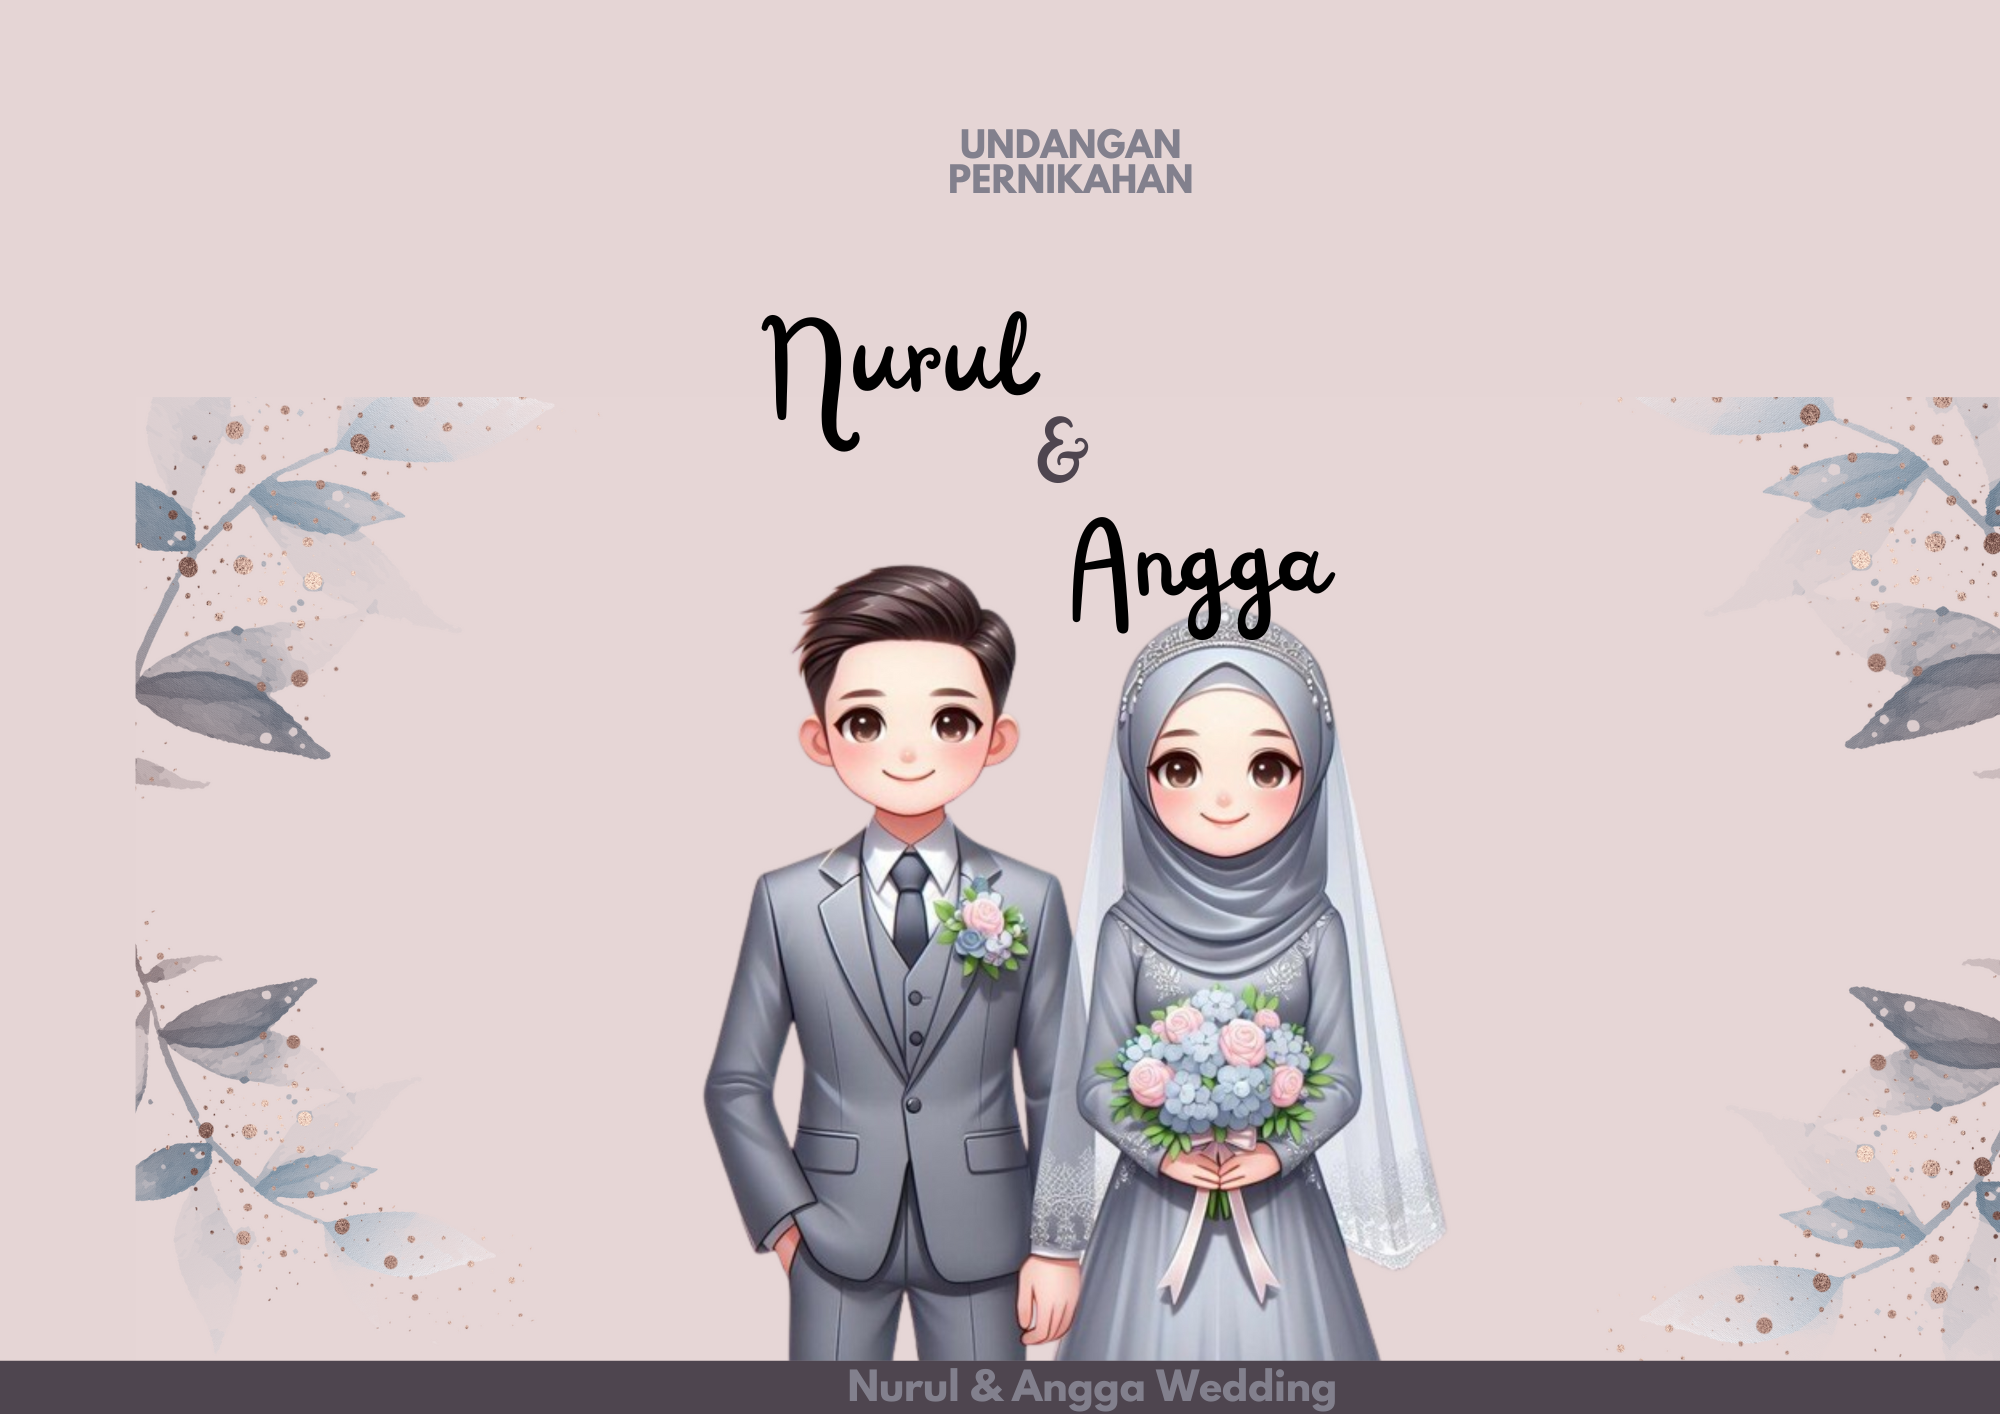
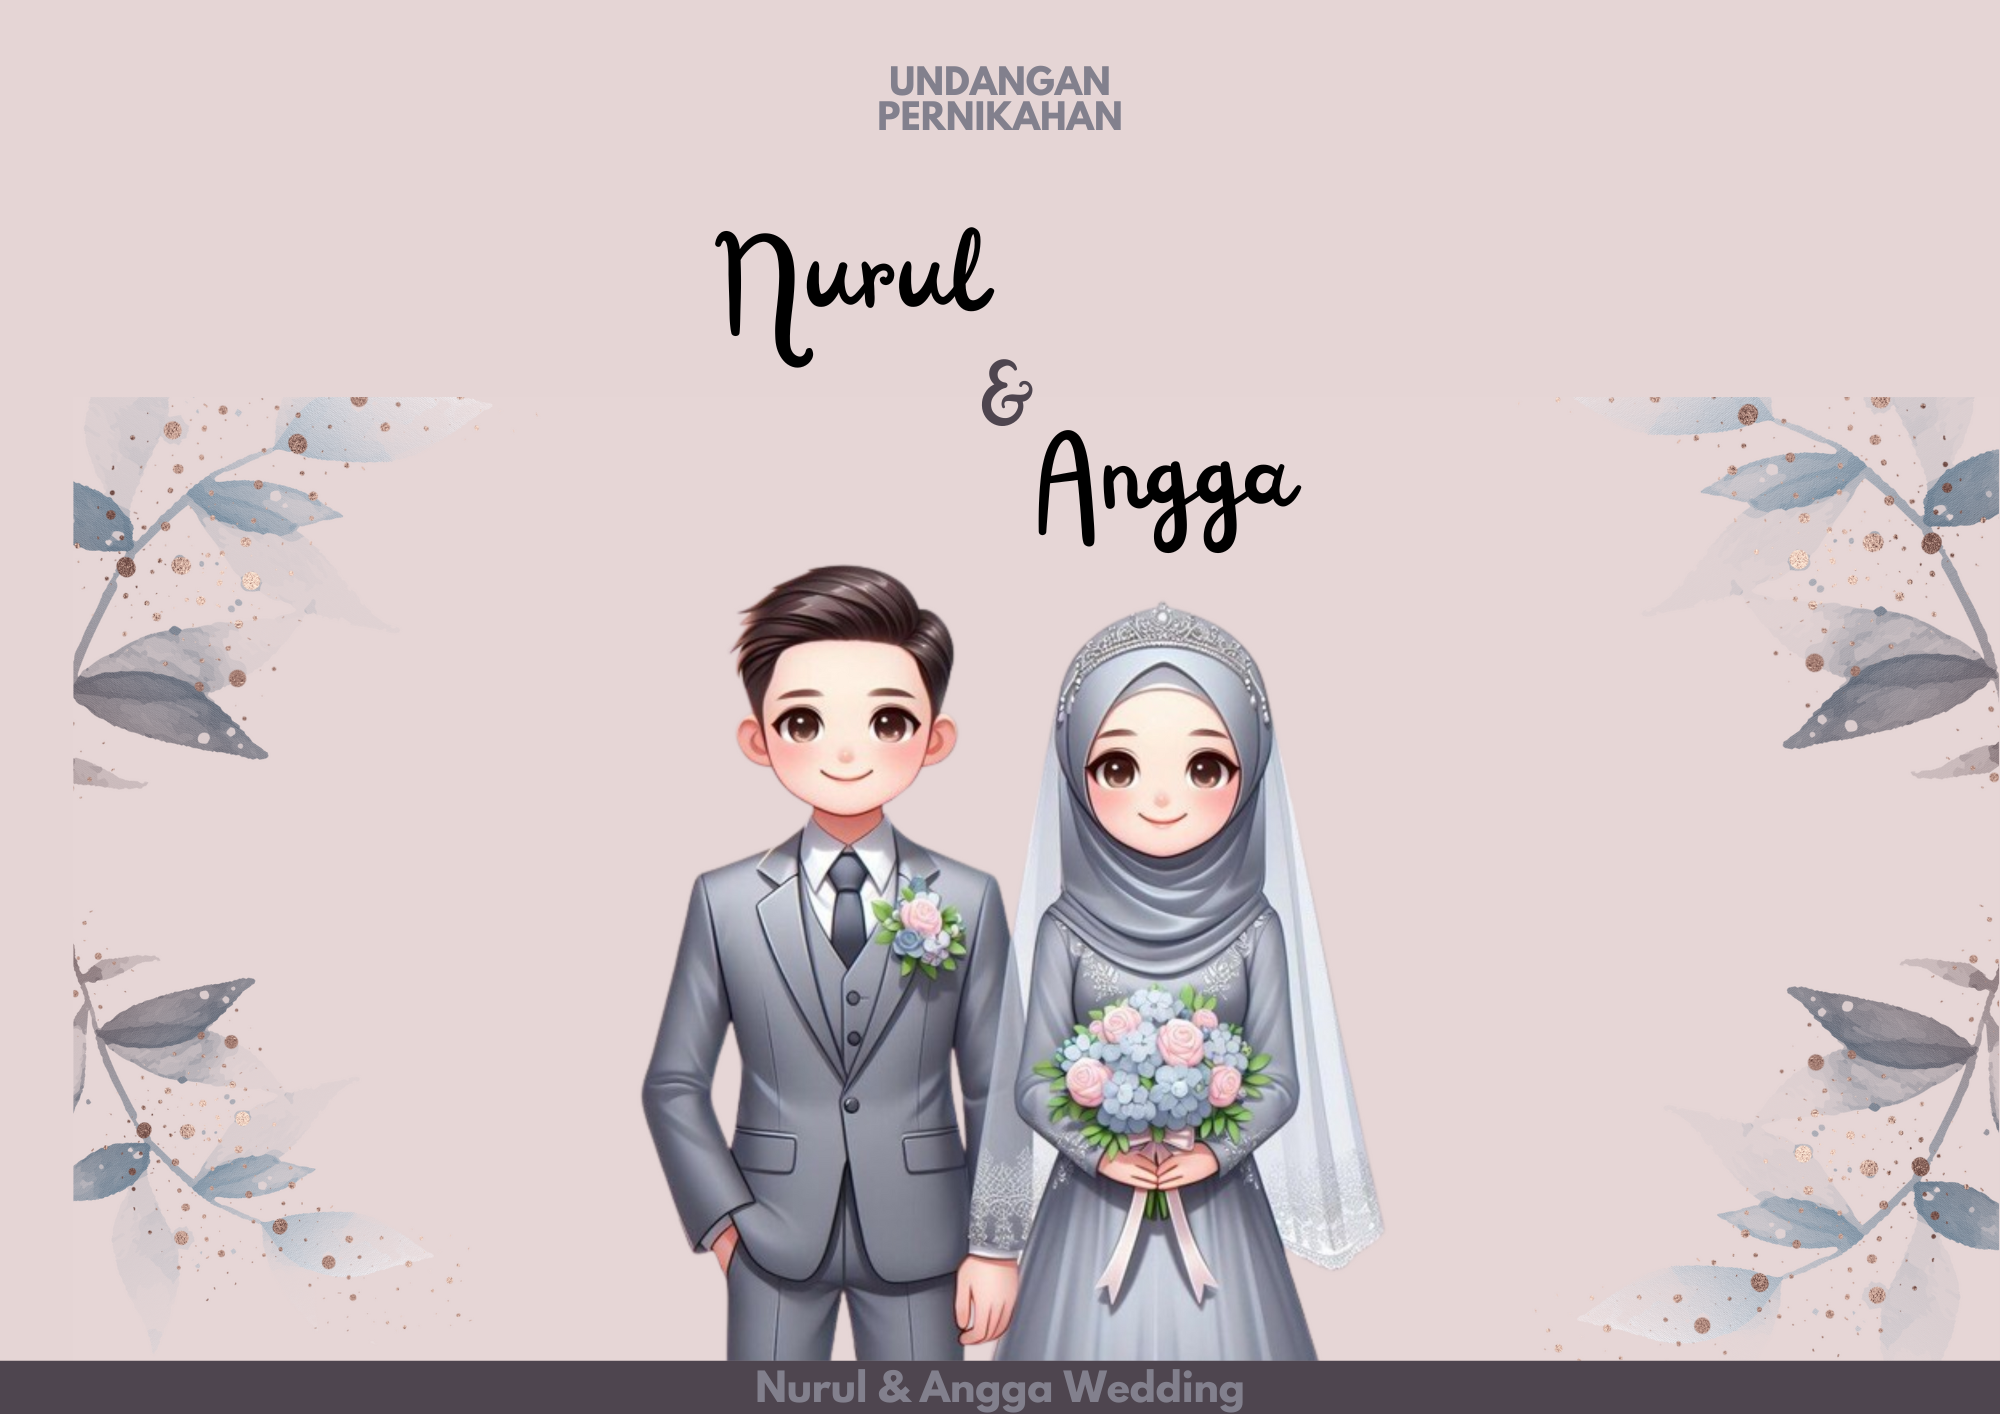
perbaikan

diff --git a/css/menikah.css b/css/menikah.css
@@ -83,7 +83,7 @@ html {
   align-items: center; /* Center items horizontally */
   padding: 5px;
   border: 2px solid #bc8887; /* Adjust the color as needed */
-  margin-top: 250px;
+  margin-top: 300px;
   border-radius: 5px; /* Optional: adds rounded corners */
   background-color: transparent; /* Optional: adds a background color */
   text-align: center;
@@ -94,7 +94,7 @@ html {
   border: none;
   padding: 0;
   margin: 0 5px;
-  margin-top: 250px;
+  margin-top: 300px;
   background-color: transparent;
 }
 
